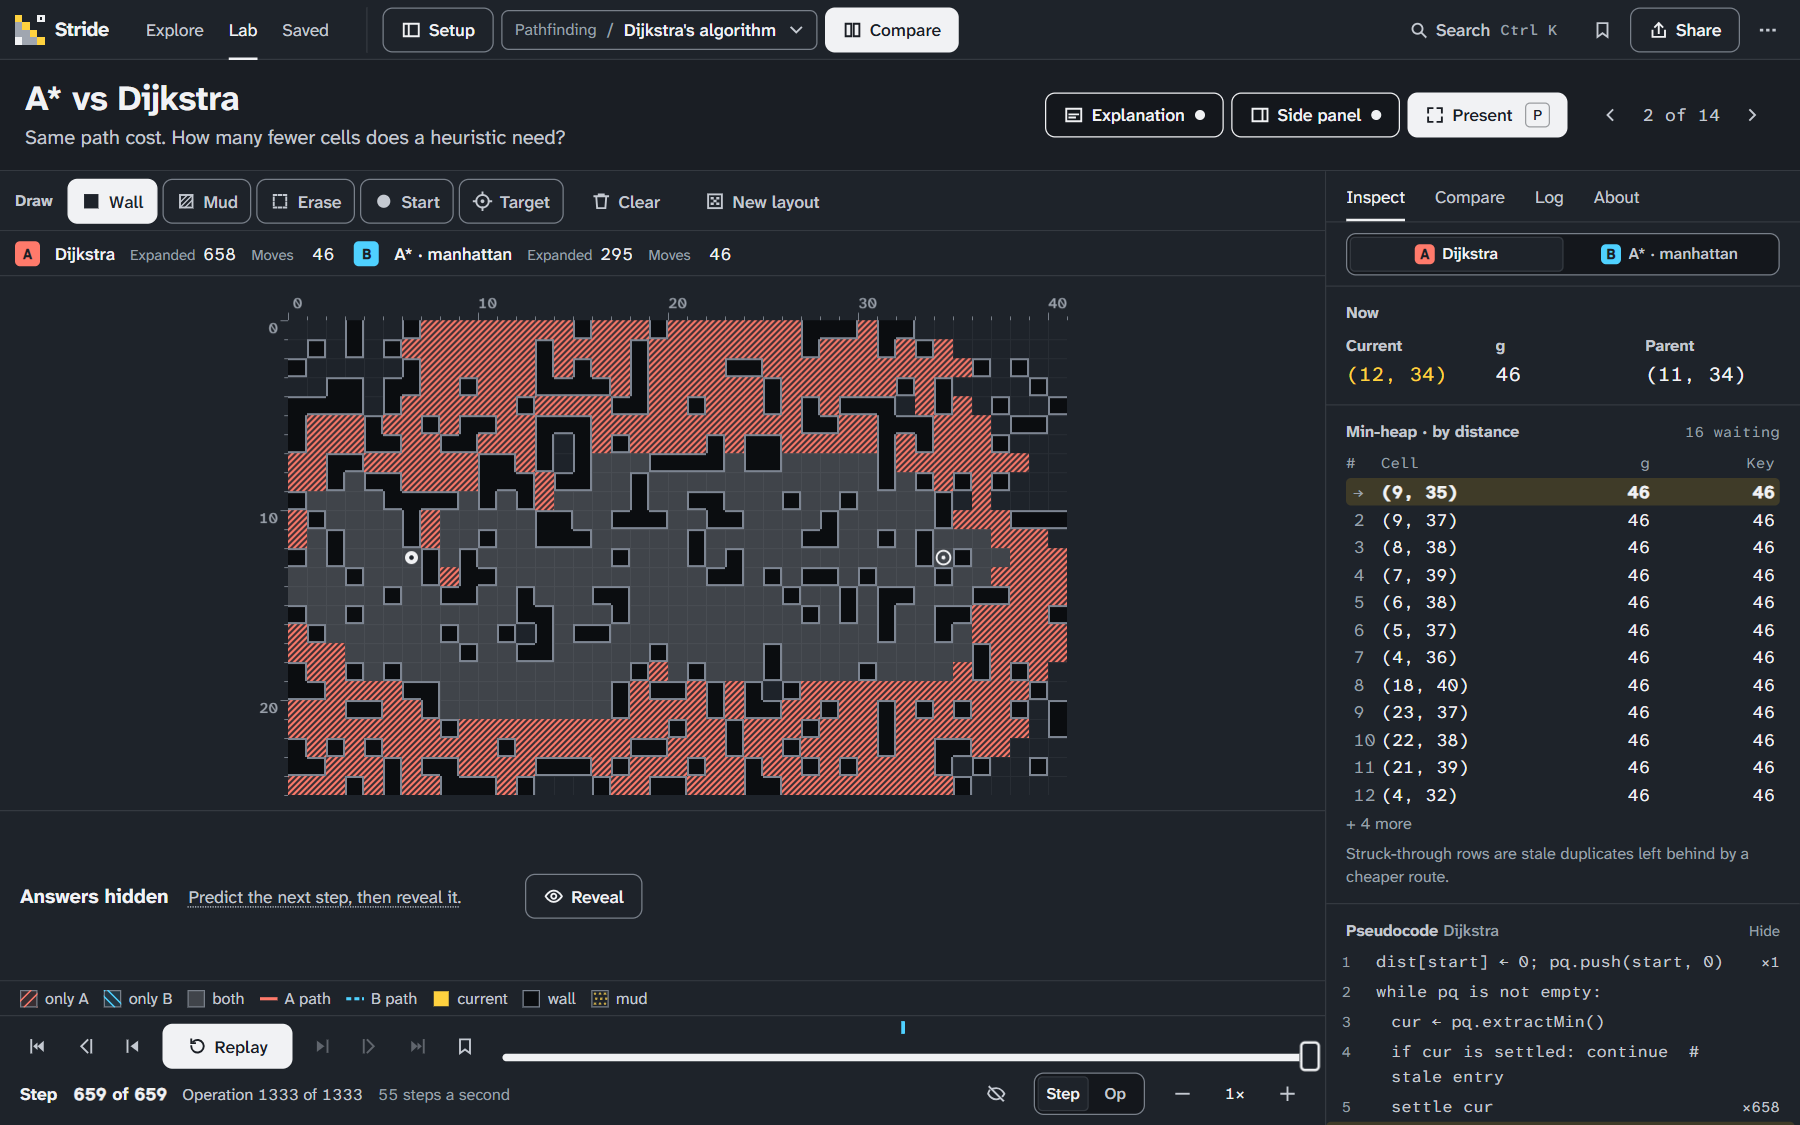
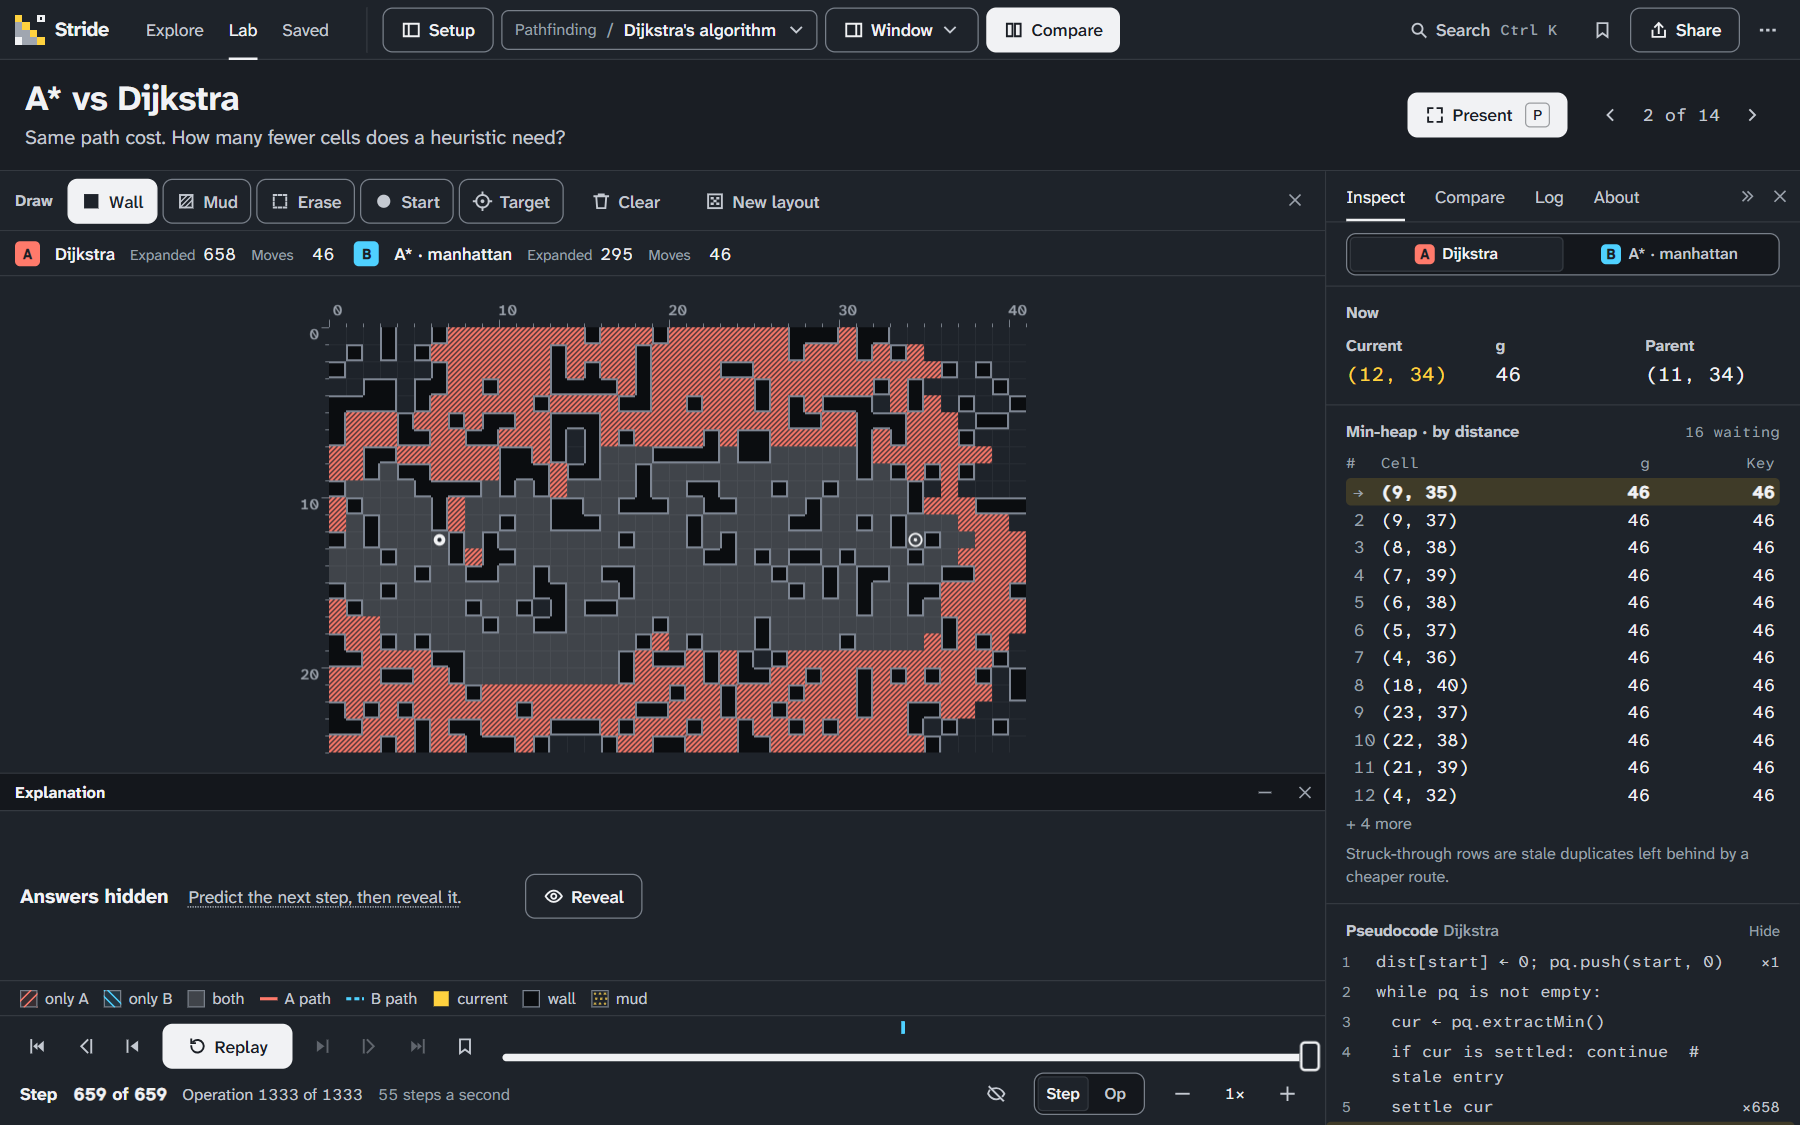
Document panels and retake screenshots

diff --git a/DESIGN.md b/DESIGN.md
@@ -140,7 +140,7 @@ Cell transitions are symmetric, so stepping back reads as the exact inverse of s
 ### Narration (`NowCaption`, `Line`)
 
 - The caption has a fixed height (136px; 172px in presentation mode) and never resizes the board. What happened and what happens next are one line each, the reason is at most two lines and the invariant one; anything longer ends in an ellipsis and the full text is in the element title. Professors reported the old growing caption as the board jumping and lagging during playback: it moved the canvas by up to 92px.
-- The Explanation toggle hides the caption row entirely, which gives its 136px to the board. The caption stays mounted inside a zero-height row, so the screen-reader live region keeps announcing steps.
+- The caption sits in a panel with its own header bar (30px): "Explanation", then Minimize and Close controls at the right. Minimized, only the bar stays and it shows the current step in one line; closed, the row is gone and its space goes to the board. Double-clicking the bar toggles minimize. The caption stays mounted in every state, so the screen-reader live region keeps announcing steps.
 - Each run's caption has four parts, in order: what happened (bold, 16px; 22px in presentation mode), why it was allowed, the **invariant** (what stays true at every step), and what happens next.
 - Invariants live in `src/core/invariants.ts`, one per algorithm. Until they are approved they render with a dotted underline (`.ph`), the same mark used for any copy awaiting approval.
 
@@ -153,9 +153,15 @@ Cell transitions are symmetric, so stepping back reads as the exact inverse of s
 
 A 48px toolbar sits directly above the board, so editing the input never means opening Setup. Pathfinding shows Draw: Wall, Mud, Erase, Start, Target (keys 1 to 5), Clear, and New layout. Spanning trees show Edit: Move, Edge, Node, Delete, and New graph. The other families show New data. Every tool is a labelled button; the labels drop to icons only when the board column is narrower than 660px, and each keeps its name for screen readers and a title with its key. The same toolbar appears in presentation mode.
 
-### View controls (`ViewControls`)
+### Panels and workspaces (`src/ui/lab/Panes.tsx`)
 
-The experiment bar ends with three labelled controls: Explanation (E) and Side panel (I), which show their state with a filled or empty dot as well as the pressed fill, and Present (P), the primary button. Turning both toggles off is the large-board mode for a lecture hall without going full screen: at 1440×900 the board grows from 463px to 599px tall and spans the full width.
+Panels follow the conventions of a desktop editor's docked panels, so hiding and restoring them works the way people already expect:
+
+- **Panel controls.** The explanation's header bar has Minimize (−, which becomes + when minimized) and Close (×). The side panel's tab row ends with Collapse to icons (») and Close. The board toolbar ends with Close. Controls are 24px squares in `ink-3` that darken on hover, each with a tooltip and an accessible name such as "Close side panel".
+- **Icon strip.** A collapsed side panel becomes a 48px strip: Expand («) at the top, then one icon per tab (Inspect, Compare, Log, About). Clicking an icon reopens the panel on that tab.
+- **Window menu.** A Window menu in the header lists every panel with a check mark (Toolbar, Explanation, Legend, Side panel) and its key, the three workspaces, Reset workspace and Present full screen. Anything closed from its own controls comes back from here.
+- **Workspaces.** Essentials has every panel open. Lecture keeps the toolbar and legend, minimizes the explanation and collapses the side panel to icons. Board only leaves the board, the run strip and the transport. The arrangement is saved in local storage (`stride.workspace.v1`) and restored on the next visit. At 1440×900 the board is 433px tall in Essentials, 569px in Lecture and 675px in Board only.
+- The experiment bar keeps one view control, Present (P), as its primary button.
 
 ### Hide the answer
 
@@ -173,7 +179,8 @@ The experiment bar ends with three labelled controls: Explanation (E) and Side p
 
 ```
 ┌ header: wordmark · nav · [Setup] [family / algorithm ▾] [Compare] ……… Search · Save · Share · More ┐
-├ experiment bar: h1 (28px) · Result chip · question line · [Explanation] [Side panel] [Present] ‹ 2 of 14 › ┤
+├ header: … [Setup] [family / algorithm ▾] [Window ▾] [Compare] ……………………………………………………………… ┤
+├ experiment bar: h1 (28px) · Result chip · question line ……………………………… [Present] ‹ 2 of 14 › ┤
 ├ toolbar: Draw: [Wall] [Mud] [Erase] [Start] [Target] · Clear · New layout                          │
 ├ board 1: run metrics strip                                    │ board 2 (380px, 440px from 1600px) │
 │          canvas (the figure)                                  │  Inspect · Compare · Log · About  │

diff --git a/README.md b/README.md
@@ -38,11 +38,11 @@ In _Bad starting centroids_, k-means++ settles at inertia 1.657 after 2 iteratio
 - **Phase rail.** Marks under the scrubber show where a run reaches a milestone, such as the target being discovered, and the status line names the next one.
 - **Hide the answers.** <kbd>A</kbd> hides the captions and the result so the class can predict the next step, then reveal it. The counts in the run strip stay visible for now.
 - **Edit the board while you teach.** A toolbar above the board draws walls and mud, erases, moves the start and target, clears the grid or makes a new layout (keys 1 to 5 for the tools). Graphs get Move, Edge, Node and Delete. It stays available in presentation mode.
-- **Make the board bigger.** The Explanation (<kbd>E</kbd>) and Side panel (<kbd>I</kbd>) buttons hide those parts, so the board takes the full width and about 30% more height. The board keeps its size and position while a run plays.
+- **Make the board bigger.** Panels minimize, collapse to icons or close from their own controls, and the Window menu brings them back. Three workspaces are one click away: Essentials, Lecture (explanation minimized, side panel as icons) and Board only, which makes the board about half again as tall. Stride remembers the arrangement, and the board keeps its size and position while a run plays.
 - **Presentation mode.** The Present button or <kbd>P</kbd> goes full screen with large type and toggles for code, state, explanation and metrics.
 - **Share links.** Input, seed, settings, the experiment and optionally the current step are encoded in the URL, and JSON export uses the same format.
 
-<img alt="BFS in a maze with the explanation and side panel hidden: the toolbar with labelled Wall, Mud, Erase, Start, Target, Clear and New layout buttons above a board that fills the width, and the Explanation, Side panel and Present buttons in the header" src=".github/assets/f-focus.png" width="100%">
+<img alt="The Lecture workspace: the drawing toolbar above a large BFS board, the explanation minimized to a one-line bar with expand and close controls, the side panel collapsed to a strip of icons, and the Window menu in the header" src=".github/assets/f-focus.png" width="100%">
 
 <img alt="Answers hidden at the end of A* vs Dijkstra: the captions are replaced by Predict the next step, then reveal it, and a Reveal button" src=".github/assets/f-hidden.png" width="100%">
 

diff --git a/CHANGELOG.md b/CHANGELOG.md
@@ -25,7 +25,8 @@
 - When a comparison finishes, its result appears under the question. Arrows step through all 14 experiments.
 - In the Inspector, the structure comes first, then the pseudocode, then the totals. Comparisons show one legend instead of two.
 - A labelled toolbar above the board holds the editing tools that used to sit in the Setup drawer: Wall, Mud, Erase, Start, Target, Clear and New layout on pathfinding grids, Move, Edge, Node and Delete on graphs, and New data elsewhere. It also appears in presentation mode.
-- The experiment bar has labelled Explanation (E), Side panel (I) and Present (P) controls. Hiding the explanation and the side panel makes the board about 30% taller and full width without going full screen.
+- Panels can be minimized, collapsed or closed from their own header controls, as in a desktop editor: the explanation minimizes to a one-line bar, the side panel collapses to a strip of icons that reopen it on a tab, and the toolbar closes. A Window menu in the header brings any panel back and switches between three workspaces (Essentials, Lecture, Board only). The arrangement is remembered between visits.
+- The keyboard shortcuts dialog no longer runs off the bottom of the screen; it fits the window and lists the shortcuts in two columns.
 - Explore groups the experiments by family, each row led by its question, instead of a grid of identical cards. Open the lab is the primary action.
 
 ### Changed
